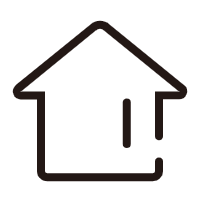
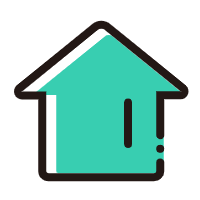
commit

diff --git a/pages/calculator/calculator.js b/pages/calculator/calculator.js
@@ -1027,7 +1027,7 @@ Page({
           });
           
           wx.showToast({
-            title: '已清空',
+            title: '已重置',
             icon: 'success'
           });
         }